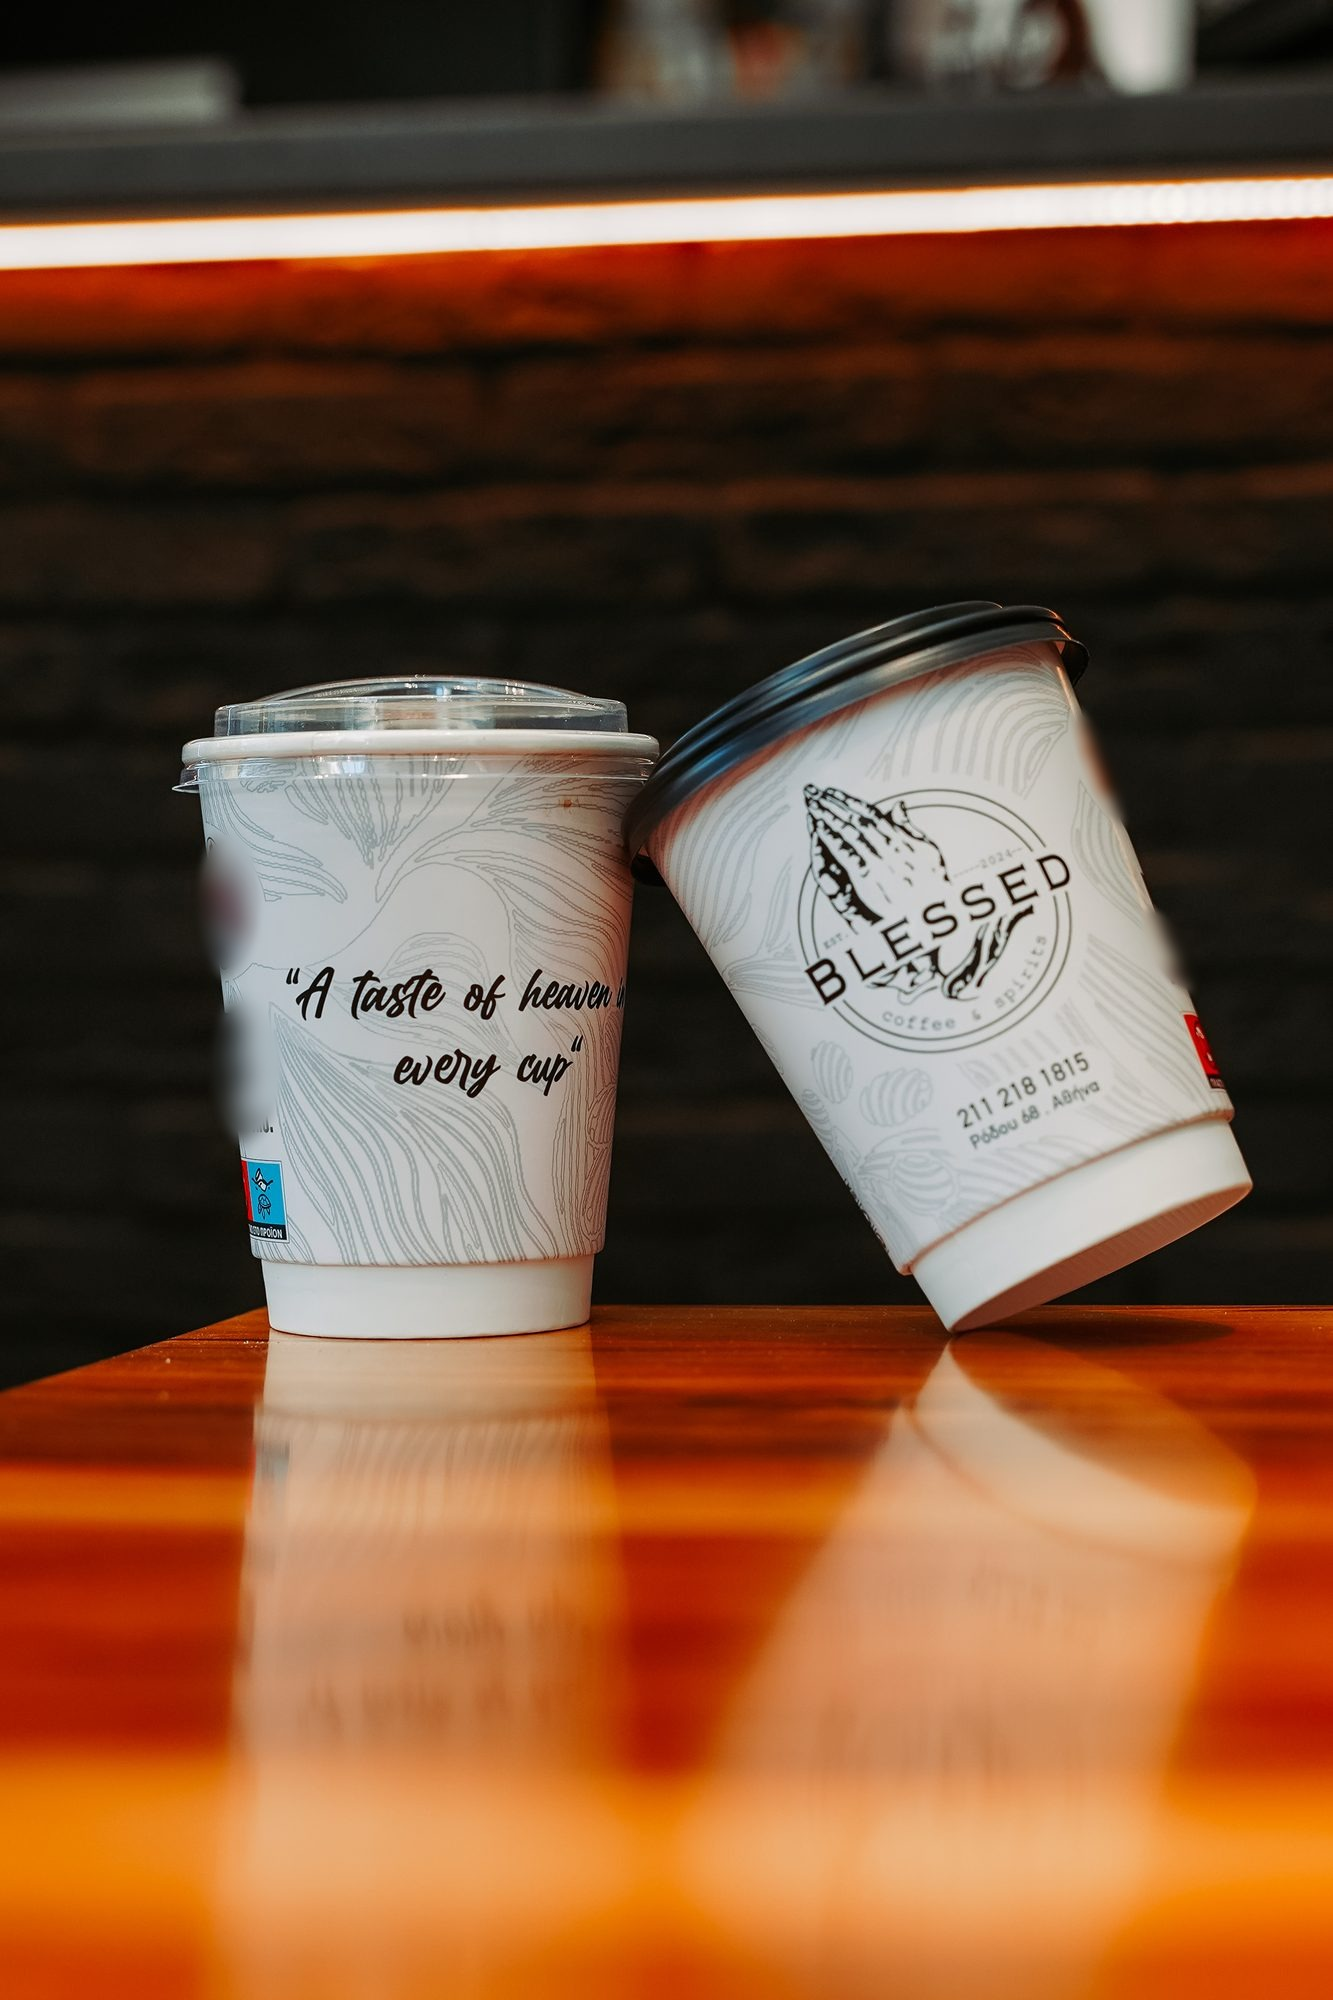
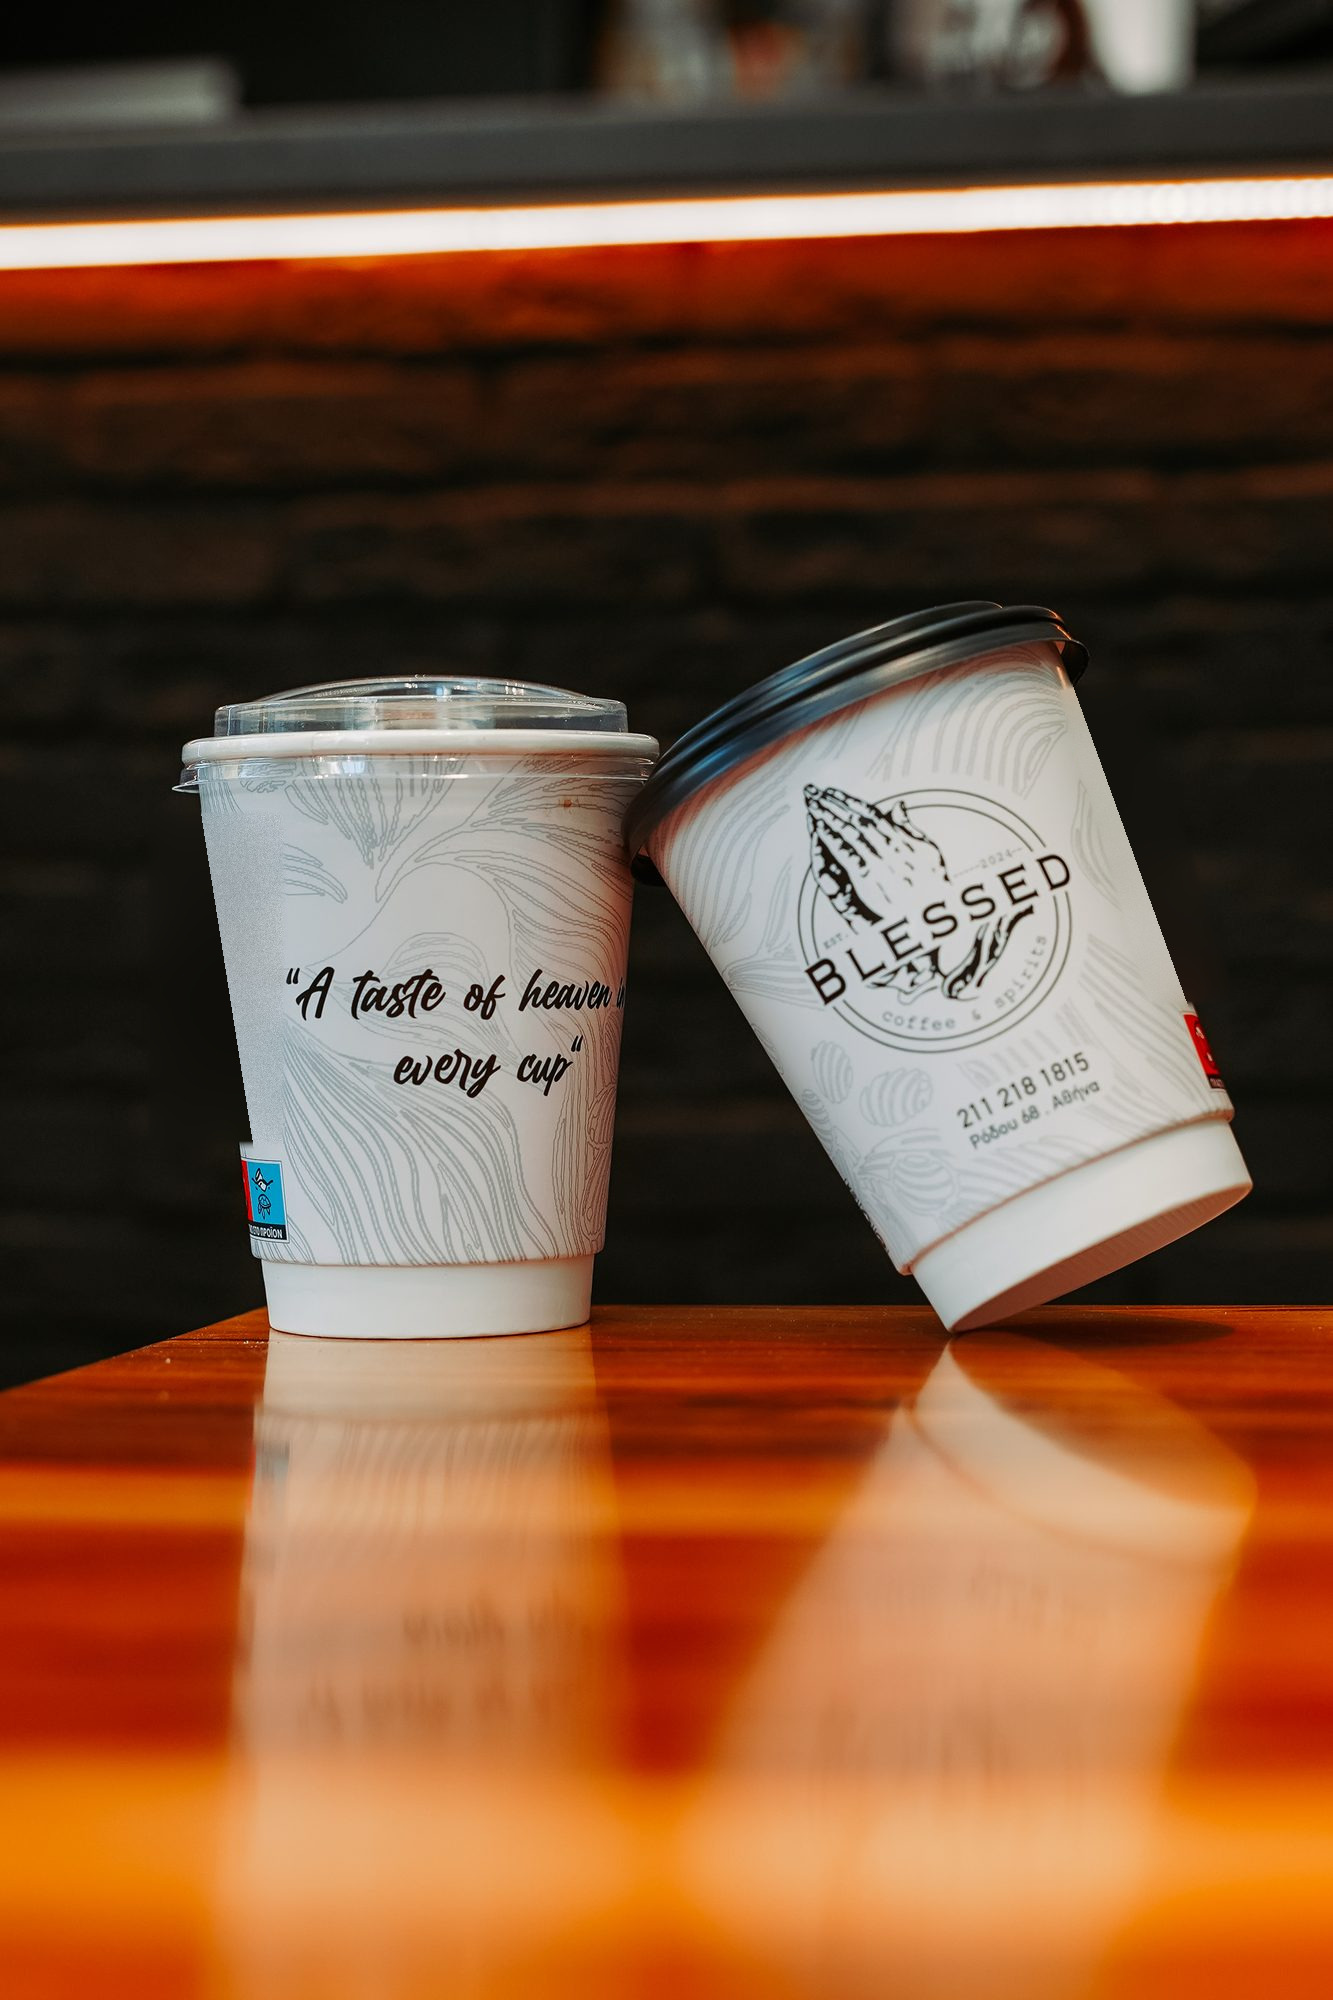
fix(photos): erase the old cup panel from cup-pair instead of blurring it
Edge-aware fill: each side of the cup silhouette is filled from its own surroundings,
so the cup edge stays crisp and nothing smears into the background.

Changed region(s): [[0.1538, 0.403, 0.2153, 0.589], [0.7997, 0.341, 0.892, 0.496]]

diff --git a/social/photos/erase-brands.py b/social/photos/erase-brands.py
@@ -1,0 +1,152 @@
+"""Erase Mrs Rose / Goppion branding from library photos (partnerships ended Nov 2026).
+
+Content-aware fill without ML: each region is filled with a smooth membrane (Laplace) from
+the pixels around it, then given back grain sampled from its surroundings. Where a region
+straddles an edge (a cup against the background), the edge line is fitted from the clean rows
+above and below and each side is filled only from its own side, so the silhouette stays crisp.
+
+Run from repo root: python3 social/photos/erase-brands.py [name ...]
+Always starts from the file's pre-edit original in git (ORIG), so it can be re-run.
+Regions are (polygon [(x, y), ...], edge) in original pixels; edge 'v' = fit a near-vertical
+silhouette through the region, None = one surface.
+"""
+import io
+import subprocess
+import sys
+from pathlib import Path
+
+import numpy as np
+from PIL import Image, ImageDraw, ImageFilter
+
+ROOT = Path(__file__).resolve().parent
+ORIG = '67496ca^'  # last commit before any brand edit
+FEATHER = 8
+OUTLIER = 45  # luminance distance from a surface's median that counts as foreign
+
+def shape(cx, cy, rx, ry, ang=0, p=2, grow=1.15):
+    """Superellipse outline (p=2 ellipse, 4+ rounded rect), rotated ang degrees, scaled by grow."""
+    t = np.linspace(0, 2 * np.pi, 72, endpoint=False)
+    c, s = np.cos(t), np.sin(t)
+    x = rx * grow * np.sign(c) * np.abs(c) ** (2 / p)
+    y = ry * grow * np.sign(s) * np.abs(s) ** (2 / p)
+    a = np.radians(ang)
+    return [(cx + xi * np.cos(a) - yi * np.sin(a), cy + xi * np.sin(a) + yi * np.cos(a)) for xi, yi in zip(x, y)]
+
+
+REGIONS = {
+    # paper cups with the old Mrs Rose + Goppion side panel
+    'shoot/cup-pair.jpg': [
+        ([(150, 815), (280, 815), (280, 1140), (150, 1140)], 'v!'),
+        ([(1060, 690), (1135, 680), (1235, 1000), (1150, 1000)], 'v!'),
+    ],
+}
+# ponytail: membrane fill only holds up on plain surfaces and clean silhouettes; the other photos keep
+# blur-brands.py's blur until a real inpainting model (LaMa) is available. Never list shutter-christ(-2),
+# storefront-day/-glass/-leaves or grinder-fill here: they were cropped after, ORIG would undo the crop.
+
+
+def original(rel):
+    data = subprocess.run(['git', 'show', f'{ORIG}:social/photos/{rel}'], capture_output=True, check=True).stdout
+    return Image.open(io.BytesIO(data))
+
+
+def membrane(img, unknown, domain, iters=60):
+    """Fill img[unknown] smoothly from img[domain & ~unknown]; only domain pixels count as neighbours."""
+    h, w = unknown.shape
+    if min(h, w) > 16:
+        # Coarse solve first (weighted 2x downsample), upsample as the starting guess.
+        H, W = h // 2 * 2, w // 2 * 2
+        wk = (domain & ~unknown)[:H, :W].astype(float)
+        cw = wk.reshape(H // 2, 2, W // 2, 2).sum((1, 3))
+        cv = (img[:H, :W] * wk[..., None]).reshape(H // 2, 2, W // 2, 2, 3).sum((1, 3))
+        cimg = cv / np.maximum(cw, 1e-6)[..., None]
+        cdom = domain[:H, :W].reshape(H // 2, 2, W // 2, 2).any((1, 3))
+        cunk = cdom & (cw == 0)
+        coarse = membrane(cimg, cunk, cdom, iters)
+        up = np.repeat(np.repeat(coarse, 2, 0), 2, 1)
+        guess = img.copy()
+        guess[:H, :W][unknown[:H, :W]] = up[unknown[:H, :W]]
+        img = guess
+    img = img.copy()
+    d = domain.astype(float)
+    for _ in range(iters):
+        acc = np.zeros_like(img)
+        wt = np.zeros(unknown.shape)
+        for dy, dx in ((1, 0), (-1, 0), (0, 1), (0, -1)):
+            acc += np.roll(img * d[..., None], (dy, dx), (0, 1))
+            wt += np.roll(d, (dy, dx), (0, 1))
+        new = acc / np.maximum(wt, 1e-6)[..., None]
+        img[unknown] = new[unknown]
+    return img
+
+
+def erase(im, regions, seed=0):
+    rng = np.random.default_rng(seed)
+    a = np.asarray(im.convert('RGB')).astype(float)
+    H, W, _ = a.shape
+    for poly, edge in regions:
+        m = Image.new('L', (W, H), 0)
+        ImageDraw.Draw(m).polygon(poly, fill=255)
+        mask = np.asarray(m) > 0
+        ys, xs = np.nonzero(mask)
+        pad = 40
+        y0, y1, x0, x1 = max(ys.min() - pad, 0), min(ys.max() + pad, H), max(xs.min() - pad, 0), min(xs.max() + pad, W)
+        win, wm = a[y0:y1, x0:x1], mask[y0:y1, x0:x1]
+        lum = win.mean(2)
+        sides = [np.ones_like(wm)]
+        if edge in ('v', 'v!'):
+            # Silhouette: in each clean row, the strongest left-right luminance step. Fit x = a*y + b.
+            pts = []
+            g = np.abs(np.diff(lum, axis=1))
+            for r in range(win.shape[0]):
+                if wm[r].any():
+                    continue
+                c = int(np.argmax(g[r]))
+                if g[r, c] > 40:
+                    pts.append((r, c + 0.5))
+            if len(pts) >= 10:
+                pts = np.array(pts)
+                k, b = np.polyfit(pts[:, 0], pts[:, 1], 1)
+                resid = np.abs(pts[:, 1] - (k * pts[:, 0] + b))
+                if np.median(resid) < 3 or edge == 'v!':  # a real silhouette, not scattered print lines (v! = trust it)
+                    xx = np.arange(win.shape[1])[None, :]
+                    line = k * np.arange(win.shape[0])[:, None] + b
+                    sides = [xx < line, xx >= line]
+                else:
+                    print(f'  no clean edge near {poly[0]}, filling as one surface')
+        # Fill a band FEATHER px wider than the region and fade it out over that band, so print and
+        # texture run softly into the fill instead of stopping at a cut line.
+        grow = np.asarray(Image.fromarray((wm * 255).astype(np.uint8)).filter(ImageFilter.MaxFilter(2 * FEATHER + 1))) > 0
+        ramp = np.asarray(Image.fromarray((wm * 255).astype(np.uint8)).filter(ImageFilter.GaussianBlur(FEATHER / 2))).astype(float) / 255
+        alpha = np.maximum(np.clip(ramp * 2, 0, 1), wm)[..., None]
+        blur = np.stack([np.asarray(Image.fromarray(win[..., c].astype(np.uint8)).filter(ImageFilter.GaussianBlur(1.5))).astype(float) for c in range(3)], 2)
+        hp = (win - blur).mean(2)
+        out = win.copy()
+        for side in sides:
+            unk = grow & side
+            if not unk.any():
+                continue
+            # Boundary pixels that don't belong to this surface (a badge poking over the edge, a dark
+            # print line) would bleed into the fill: leave them out of the domain.
+            ref = np.median(lum[side & ~grow])
+            dom = side & ((np.abs(lum - ref) < OUTLIER) | unk)
+            filled = membrane(win, unk, dom)
+            # Grain: gaussian, strength matched to the clean pixels on this side (robust, ignores print lines).
+            std = 1.4826 * np.median(np.abs(hp[side & ~grow]))
+            out[unk] = filled[unk] + rng.normal(0, std, unk.sum())[:, None]
+        a[y0:y1, x0:x1] = out * alpha + win * (1 - alpha)
+    return Image.fromarray(a.clip(0, 255).astype(np.uint8))
+
+
+if __name__ == '__main__':
+    names = sys.argv[1:] or list(REGIONS)
+    for rel in names:
+        src = original(rel)
+        res = erase(src, REGIONS[rel])
+        path = ROOT / rel
+        kw = {'quality': 92, 'subsampling': 0} if path.suffix == '.jpg' else {}
+        for key in ('exif', 'icc_profile'):
+            if src.info.get(key):
+                kw[key] = src.info[key]
+        res.save(path, **kw)
+        print('erased', rel)
